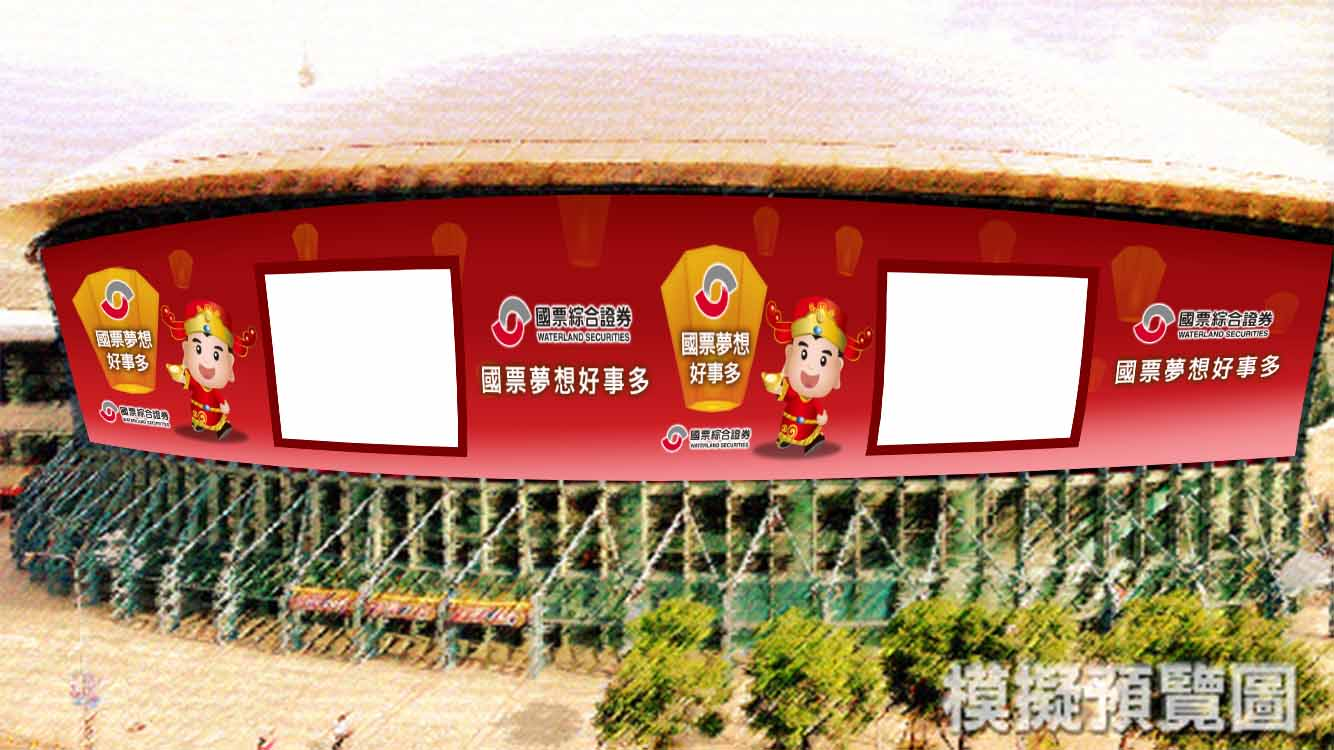
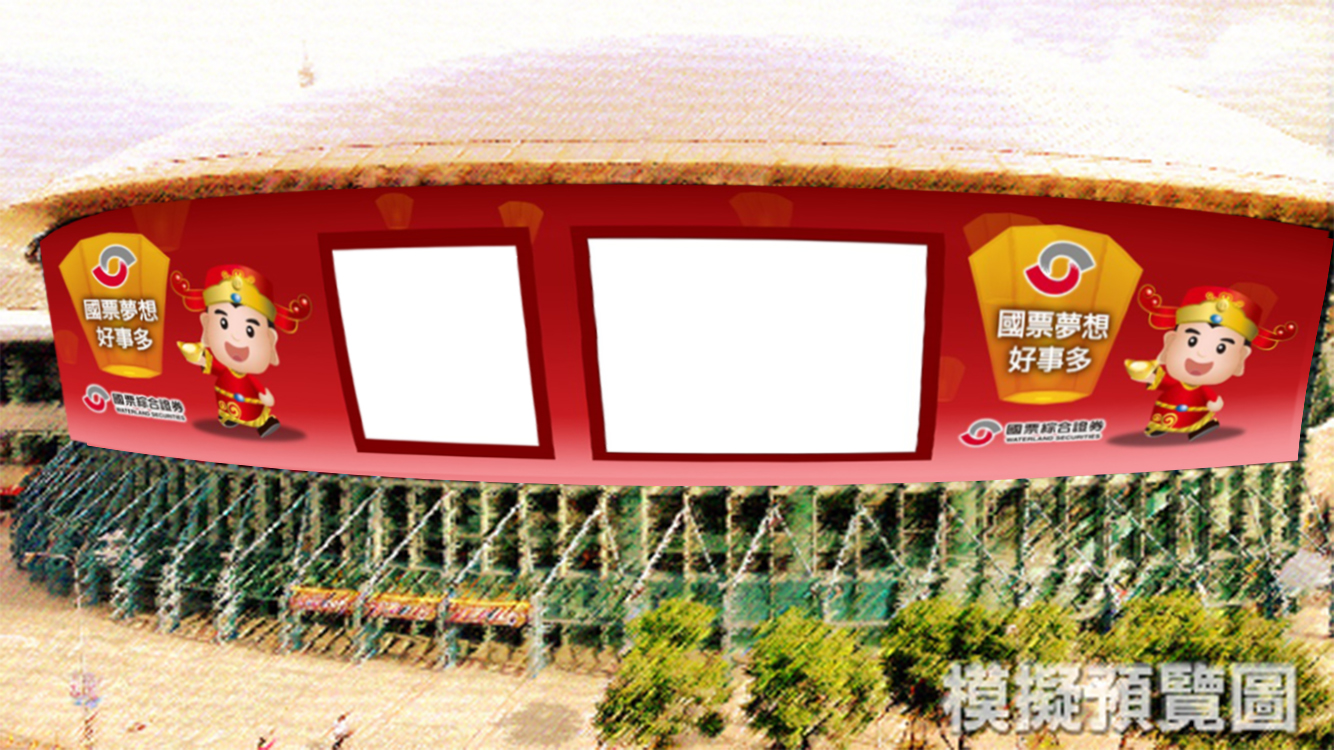
Replaced WLS contens and fixed the dooh_pic.json

diff --git a/public/wls/index.html b/public/wls/index.html
@@ -97,13 +97,14 @@
           <div class="span12"> 
         <!-- slider -->
         <div class="slide" style="width:100%"">
-        	<img src="img/slide.png">
+        	<img src="img/slide.jpg">
         </div>
         
         <span id="responsiveFlag"></span>
         <div class="block-slogan" style="color:#FFF">
               <div>
-           
+           <p>誰說只有偶像天團才可以登上小巨蛋？現在國票財神粉絲團粉絲也可以啦！</p>
+		   <p>只要分享相片並在國票紅財神粉絲團寫下您對新年的新希望，就有機會將夢想登上小巨蛋天幕，讓大家一起實現您的夢想！！</p>
             <p style="text-align:center; padding-top:20px;"><a href="login.html" class="btn btn-1">我要上小巨蛋</a></p>
           </div>
             </div>

diff --git a/public/wls/preview.html b/public/wls/preview.html
@@ -54,8 +54,8 @@
 			setTimeout(function(){
 				//var doohPreviewImageUrl = domainUrl + "/contents/user_project/" + localStorage.projectId + "/" + localStorage.projectId + "_dooh_preview.png";
 				preview.attr({src:localStorage.doohPreviewUrl});
-				//console.log("localStorage.longphotoUrl");
-				//console.log(localStorage.longphotoUrl);
+				console.log("localStorage.longphotoUrl");
+				console.log(localStorage.longphotoUrl);
 				
 			},1000);
 			var btnUpload = $("#btnUpload");

diff --git a/public/wls/js/template.js b/public/wls/js/template.js
@@ -32,7 +32,7 @@ template.uploadToServer = function(){
                 	            time: (new Date()).getTime()
                 	        },
                 	        success: function(data, textStatus, jqXHR ){
-//                	        	console.log("Upload result image UGC to server");
+                	        	console.log("Upload result image UGC to server");
 //                	        	console.log("Upload result image UGC to server");
 								callback(null);
 

diff --git a/public/wls/upload_text.html b/public/wls/upload_text.html
@@ -397,7 +397,7 @@
           <h3>版型二</h3>
         <!-- slider -->
         <div class="slide">
-        <img src="img/t2.png">
+        <img src="img/t2.jpg">
          
         </div>
        <div id="mobileHint" style="color:#FFF"></div>

diff --git a/public/wls/template.html b/public/wls/template.html
@@ -159,7 +159,7 @@
           <h3>版型二</h3>
         <!-- slider -->
         <div class="slide">
-        <img src="img/t2.png">
+        <img src="img/t2.jpg">
         </div>
         
         <span id="responsiveFlag"></span>
